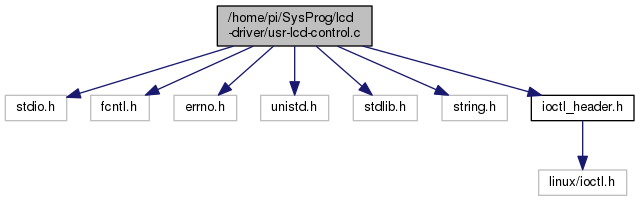
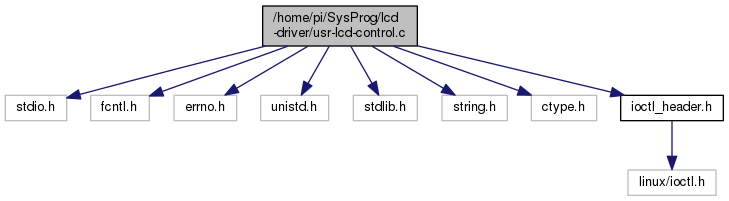
ddfkajdklfj

diff --git a/documentation/html/usr-lcd-control_8c.html b/documentation/html/usr-lcd-control_8c.html
@@ -90,19 +90,20 @@ var searchBox = new SearchBox("searchBox", "search",false,'Search');
 
 <p>a linux user space program that communicates with the hd44780 linux kernel module (LKM). to work with the device the /dev/hd44780 must be called  
 <a href="#details">More...</a></p>
-<div class="textblock"><code>#include &quot;stdio.h&quot;</code><br />
-<code>#include &quot;fcntl.h&quot;</code><br />
-<code>#include &quot;errno.h&quot;</code><br />
+<div class="textblock"><code>#include &lt;stdio.h&gt;</code><br />
+<code>#include &lt;fcntl.h&gt;</code><br />
+<code>#include &lt;errno.h&gt;</code><br />
 <code>#include &lt;unistd.h&gt;</code><br />
 <code>#include &lt;stdlib.h&gt;</code><br />
 <code>#include &lt;string.h&gt;</code><br />
+<code>#include &lt;ctype.h&gt;</code><br />
 <code>#include &quot;ioctl_header.h&quot;</code><br />
 </div><div class="textblock"><div class="dynheader">
 Include dependency graph for usr-lcd-control.c:</div>
 <div class="dyncontent">
 <div class="center"><img src="usr-lcd-control_8c__incl.png" border="0" usemap="#_2home_2pi_2SysProg_2lcd-driver_2usr-lcd-control_8c" alt=""/></div>
 <map name="_2home_2pi_2SysProg_2lcd-driver_2usr-lcd-control_8c" id="_2home_2pi_2SysProg_2lcd-driver_2usr-lcd-control_8c">
-<area shape="rect" id="node8" href="ioctl__header_8h_source.html" title="ioctl_header.h" alt="" coords="531,95,634,121"/></map>
+<area shape="rect" id="node9" href="ioctl__header_8h_source.html" title="ioctl_header.h" alt="" coords="621,95,723,121"/></map>
 </div>
 </div><table class="memberdecls">
 <tr class="heading"><td colspan="2"><h2 class="groupheader"><a name="func-members"></a>
@@ -119,7 +120,7 @@ int&#160;</td><td class="memItemRight" valign="bottom"><b>main</b> (int argc, ch
 </div></div><!-- contents -->
 <!-- start footer part -->
 <hr class="footer"/><address class="footer"><small>
-Generated on Thu Jun 2 2016 08:04:27 for LKM hd44780 lcd by &#160;<a href="http://www.doxygen.org/index.html">
+Generated on Thu Jun 2 2016 13:06:47 for LKM hd44780 lcd by &#160;<a href="http://www.doxygen.org/index.html">
 <img class="footer" src="doxygen.png" alt="doxygen"/>
 </a> 1.8.8
 </small></address>

diff --git a/documentation/html/ioctl__header_8h_source.html b/documentation/html/ioctl__header_8h_source.html
@@ -96,7 +96,7 @@ var searchBox = new SearchBox("searchBox", "search",false,'Search');
 </div><!-- fragment --></div><!-- contents -->
 <!-- start footer part -->
 <hr class="footer"/><address class="footer"><small>
-Generated on Thu Jun 2 2016 08:04:27 for LKM hd44780 lcd by &#160;<a href="http://www.doxygen.org/index.html">
+Generated on Thu Jun 2 2016 13:06:47 for LKM hd44780 lcd by &#160;<a href="http://www.doxygen.org/index.html">
 <img class="footer" src="doxygen.png" alt="doxygen"/>
 </a> 1.8.8
 </small></address>

diff --git a/documentation/html/hd44780_8c.html b/documentation/html/hd44780_8c.html
@@ -160,7 +160,7 @@ dev_t&#160;</td><td class="memItemRight" valign="bottom"><b>dev</b> = 0</td></tr
 </div></div><!-- contents -->
 <!-- start footer part -->
 <hr class="footer"/><address class="footer"><small>
-Generated on Thu Jun 2 2016 08:04:27 for LKM hd44780 lcd by &#160;<a href="http://www.doxygen.org/index.html">
+Generated on Thu Jun 2 2016 13:06:47 for LKM hd44780 lcd by &#160;<a href="http://www.doxygen.org/index.html">
 <img class="footer" src="doxygen.png" alt="doxygen"/>
 </a> 1.8.8
 </small></address>

diff --git a/documentation/html/graph_legend.html b/documentation/html/graph_legend.html
@@ -145,7 +145,7 @@ A yellow dashed arrow denotes a relation between a template instance and the tem
 </div><!-- contents -->
 <!-- start footer part -->
 <hr class="footer"/><address class="footer"><small>
-Generated on Thu Jun 2 2016 08:04:27 for LKM hd44780 lcd by &#160;<a href="http://www.doxygen.org/index.html">
+Generated on Thu Jun 2 2016 13:06:47 for LKM hd44780 lcd by &#160;<a href="http://www.doxygen.org/index.html">
 <img class="footer" src="doxygen.png" alt="doxygen"/>
 </a> 1.8.8
 </small></address>

diff --git a/documentation/html/md__home_pi_SysProg_lcd-driver_README.html b/documentation/html/md__home_pi_SysProg_lcd-driver_README.html
@@ -84,7 +84,7 @@ var searchBox = new SearchBox("searchBox", "search",false,'Search');
 </div></div><!-- contents -->
 <!-- start footer part -->
 <hr class="footer"/><address class="footer"><small>
-Generated on Thu Jun 2 2016 08:04:27 for LKM hd44780 lcd by &#160;<a href="http://www.doxygen.org/index.html">
+Generated on Thu Jun 2 2016 13:06:47 for LKM hd44780 lcd by &#160;<a href="http://www.doxygen.org/index.html">
 <img class="footer" src="doxygen.png" alt="doxygen"/>
 </a> 1.8.8
 </small></address>

diff --git a/documentation/html/files.html b/documentation/html/files.html
@@ -95,7 +95,7 @@ var searchBox = new SearchBox("searchBox", "search",false,'Search');
 </div><!-- contents -->
 <!-- start footer part -->
 <hr class="footer"/><address class="footer"><small>
-Generated on Thu Jun 2 2016 08:04:27 for LKM hd44780 lcd by &#160;<a href="http://www.doxygen.org/index.html">
+Generated on Thu Jun 2 2016 13:06:47 for LKM hd44780 lcd by &#160;<a href="http://www.doxygen.org/index.html">
 <img class="footer" src="doxygen.png" alt="doxygen"/>
 </a> 1.8.8
 </small></address>

diff --git a/documentation/html/globals.html b/documentation/html/globals.html
@@ -95,7 +95,7 @@ var searchBox = new SearchBox("searchBox", "search",false,'Search');
 </div><!-- contents -->
 <!-- start footer part -->
 <hr class="footer"/><address class="footer"><small>
-Generated on Thu Jun 2 2016 08:04:27 for LKM hd44780 lcd by &#160;<a href="http://www.doxygen.org/index.html">
+Generated on Thu Jun 2 2016 13:06:47 for LKM hd44780 lcd by &#160;<a href="http://www.doxygen.org/index.html">
 <img class="footer" src="doxygen.png" alt="doxygen"/>
 </a> 1.8.8
 </small></address>

diff --git a/documentation/html/globals_func.html b/documentation/html/globals_func.html
@@ -95,7 +95,7 @@ var searchBox = new SearchBox("searchBox", "search",false,'Search');
 </div><!-- contents -->
 <!-- start footer part -->
 <hr class="footer"/><address class="footer"><small>
-Generated on Thu Jun 2 2016 08:04:27 for LKM hd44780 lcd by &#160;<a href="http://www.doxygen.org/index.html">
+Generated on Thu Jun 2 2016 13:06:47 for LKM hd44780 lcd by &#160;<a href="http://www.doxygen.org/index.html">
 <img class="footer" src="doxygen.png" alt="doxygen"/>
 </a> 1.8.8
 </small></address>

diff --git a/documentation/html/index.html b/documentation/html/index.html
@@ -82,7 +82,7 @@ var searchBox = new SearchBox("searchBox", "search",false,'Search');
 </div><!-- contents -->
 <!-- start footer part -->
 <hr class="footer"/><address class="footer"><small>
-Generated on Thu Jun 2 2016 08:04:27 for LKM hd44780 lcd by &#160;<a href="http://www.doxygen.org/index.html">
+Generated on Thu Jun 2 2016 13:06:47 for LKM hd44780 lcd by &#160;<a href="http://www.doxygen.org/index.html">
 <img class="footer" src="doxygen.png" alt="doxygen"/>
 </a> 1.8.8
 </small></address>

diff --git a/documentation/html/pages.html b/documentation/html/pages.html
@@ -87,7 +87,7 @@ var searchBox = new SearchBox("searchBox", "search",false,'Search');
 </div><!-- contents -->
 <!-- start footer part -->
 <hr class="footer"/><address class="footer"><small>
-Generated on Thu Jun 2 2016 08:04:27 for LKM hd44780 lcd by &#160;<a href="http://www.doxygen.org/index.html">
+Generated on Thu Jun 2 2016 13:06:47 for LKM hd44780 lcd by &#160;<a href="http://www.doxygen.org/index.html">
 <img class="footer" src="doxygen.png" alt="doxygen"/>
 </a> 1.8.8
 </small></address>

diff --git a/hd44780.c b/hd44780.c
@@ -163,14 +163,6 @@ msleep(2);
 
 write_lcd(0, 0x0c);	 //display on, cursor off, blink off
 write_lcd(0, 0xc0);
-//TESTS!!!!!!!!!!!!!!!!!
-
-//write_lcd(0, 0x41);
-//write_lcd(1, 'M');
-//write_lcd(1, 'l');
-//write_lcd(1, 'l');
-//write_lcd(1, 'o');
-
 	return 0;
 
 free24: gpio_free(24);
@@ -193,24 +185,24 @@ static int exit_display(void){
 	return 0;
 }
 
+
 static int dev_open(struct inode* inode, struct file *fp){
-printk(KERN_INFO "hd44780: device opened from user\n");
+	printk(KERN_INFO "hd44780: device opened from user\n");
 
-dev_cnt++;	//increment counter	
-	//increment usage count
+	dev_cnt++;	//increment counter	
 
-return 0;	
+	return 0;	
 }
 
 
 static int dev_release(struct inode* inode, struct file *fp){
-printk(KERN_INFO "hd44780: device closed from user\n");
+	printk(KERN_INFO "hd44780: device closed from user\n");
 
-dev_cnt--;	
-	//decrement usage counter, or else the module cannot be closed properly
+	dev_cnt--;	//decrement counter
 
-return 0;
+	return 0;
 }
+
 
 /** @brief function is called when device is being written from user space
  * @param: pointer to a file instance
@@ -229,21 +221,21 @@ static ssize_t dev_write(struct file *instance, const char __user *user, size_t 
 	to_copy = min(cnt, sizeof(textbuffer));
 	not_copied = copy_from_user(textbuffer, user, to_copy);
 
-	write_lcd(0, 0x80);
+	write_lcd(0, 0x80);		//set cursor to begin
 
 	for(i = 0; i < to_copy && textbuffer[i]; i++){
-		if(isprint(textbuffer[i])){
+		if(isprint(textbuffer[i])){			//checks, whether the passed character is printable 
 			write_lcd(1, textbuffer[i]);
 		}
 		if( i == 15){
-			write_lcd(0, 0xc0);
+			write_lcd(0, 0xc0);			//jump to second row of display
 		}
 	}
 
 	if(copy_from_user(msg_from_user, user, cnt)) {
 		printk("failed copy from user");
 	}
-return to_copy-not_copied;
+return to_copy-not_copied;				//returns how many characters are left -> returns 0 if everything is copied properly 
 }
 
 

diff --git a/documentation/latex/refman.tex b/documentation/latex/refman.tex
@@ -71,8 +71,8 @@
 \fancyhead[RO]{\fancyplain{}{\bfseries\thepage}}
 \fancyfoot[LE]{\fancyplain{}{}}
 \fancyfoot[CE]{\fancyplain{}{}}
-\fancyfoot[RE]{\fancyplain{}{\bfseries\scriptsize Generated on Thu Jun 2 2016 08\+:04\+:27 for L\+K\+M hd44780 lcd by Doxygen }}
-\fancyfoot[LO]{\fancyplain{}{\bfseries\scriptsize Generated on Thu Jun 2 2016 08\+:04\+:27 for L\+K\+M hd44780 lcd by Doxygen }}
+\fancyfoot[RE]{\fancyplain{}{\bfseries\scriptsize Generated on Thu Jun 2 2016 13\+:06\+:47 for L\+K\+M hd44780 lcd by Doxygen }}
+\fancyfoot[LO]{\fancyplain{}{\bfseries\scriptsize Generated on Thu Jun 2 2016 13\+:06\+:47 for L\+K\+M hd44780 lcd by Doxygen }}
 \fancyfoot[CO]{\fancyplain{}{}}
 \fancyfoot[RO]{\fancyplain{}{}}
 \renewcommand{\footrulewidth}{0.4pt}
@@ -128,7 +128,7 @@
 \vspace*{1cm}
 {\large Generated by Doxygen 1.8.8}\\
 \vspace*{0.5cm}
-{\small Thu Jun 2 2016 08:04:27}\\
+{\small Thu Jun 2 2016 13:06:47}\\
 \end{center}
 \end{titlepage}
 \clearemptydoublepage
